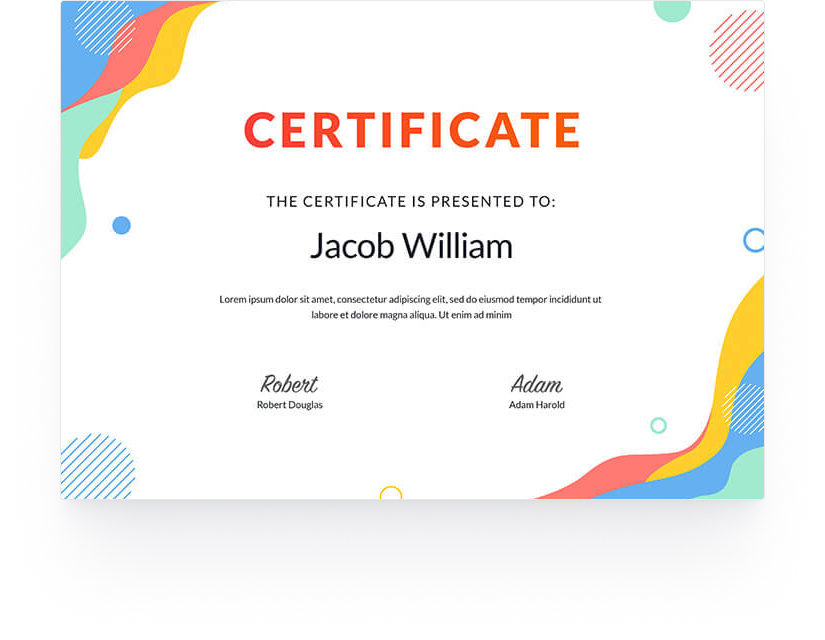
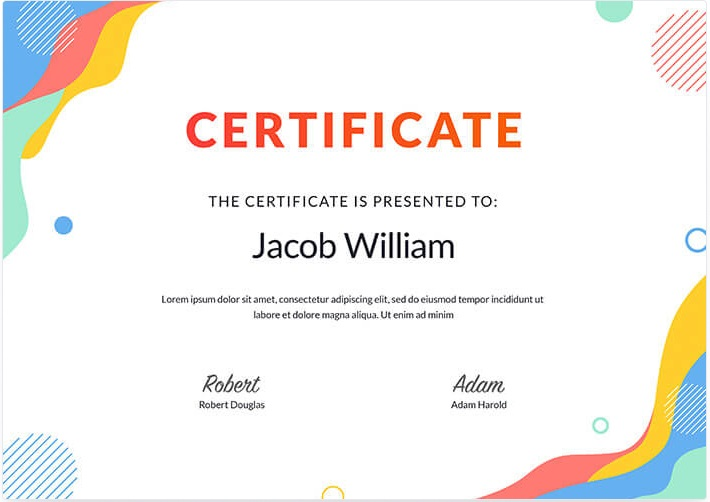
create section award

diff --git a/css/style.css b/css/style.css
@@ -64,8 +64,9 @@ html, body {
     display: flex;
     flex-direction: column;
 }
-.header__top {
-}
+
+.header__top {}
+
 .header__top-inner {
     display: flex;
     justify-content: space-between;
@@ -82,45 +83,47 @@ html, body {
 .header__logo {
     margin-right: 60px;
 }
-.header__logo-img {
-    
-}
+
+.header__logo-img {}
+
 .header__menu {
     margin-right: auto;
 }
-.header__nav {
-    
-}
+
+.header__nav {}
+
 .header__nav-list {
     display: flex;
-    
+
 }
+
 .header__list-item {
     font-weight: 700;
     margin-right: 40px;
 }
+
 .header__list-item:hover, .header__user-btn:hover {
-    color:#F75E05;
+    color: #F75E05;
     transition: all .3s;
 }
 
-.header__nav-link {
-}
+.header__nav-link {}
+
 .header__btn-box {
     display: flex;
     align-items: center;
 }
-.header__top-btn {
-    
-}
+
+.header__top-btn {}
+
 .header__user-nav {
     position: relative;
     padding-left: 28px;
 }
-.header__user-btn {
-}
-.header__body {
-}
+
+.header__user-btn {}
+
+.header__body {}
 
 .header__user-nav::before {
     content: "";
@@ -295,7 +298,9 @@ html, body {
 /* ----------------------------------------------- */
 
 .directions__inner {
+    margin-bottom: 179px;
 }
+
 .directions__text {
     display: flex;
     flex-direction: column;
@@ -303,6 +308,7 @@ html, body {
     align-items: center;
     margin-bottom: 90px;
 }
+
 .directions__span {
     font-weight: 700;
     font-size: 16px;
@@ -312,17 +318,20 @@ html, body {
     color: #1E212C;
     margin-bottom: 8px;
 }
-.directions__title {
+
+.directions__text-title {
     font-weight: 900;
     font-size: 46px;
     line-height: 130%;
     color: #1E212C;
 }
-.derections__filter {
-}
+
+.derections__filter {}
+
 .filter__list {
     display: flex;
 }
+
 .filter__item {
     margin-right: 56px;
     margin-bottom: 56px;
@@ -418,4 +427,55 @@ html, body {
 
 .directions__btn {
     margin-right: 11px;
+}
+
+/* ----------------------------------------------------- */
+
+.certificate__inner {
+    display: flex;
+    justify-content: space-between;
+}
+
+.certificate__left {
+    max-width: 397px;
+}
+
+.certificate__span {
+    margin-bottom: 8px;
+}
+
+.certificate__h3 {
+    margin-bottom: 48px;
+}
+
+.certificate__p {
+    margin-bottom: 32px;
+}
+
+.certificate__span {
+    font-weight: 700;
+    font-size: 16px;
+    line-height: 150%;
+    letter-spacing: 1px;
+    text-transform: uppercase;
+}
+
+.certificate__h3 {
+    font-weight: 900;
+    font-size: 46px;
+    line-height: 130%;
+    color: #1E212C;
+}
+
+.certificate__p {
+    font-weight: 400;
+    font-size: 16px;
+    line-height: 160%;
+    color: #424551;
+}
+
+.certificate__box {
+    display: flex;
+    justify-content: space-between;
+    margin-top: ;
 }

diff --git a/index.html b/index.html
@@ -197,7 +197,7 @@
                 <div class="directions__span">
                   <span>OUR MAIN DIRECTIONS</span>
                 </div>
-                <div class="directions__title">
+                <div class="directions__text-title">
                   <h3>What do we teach</h3>
                 </div>
               </div>
@@ -319,7 +319,9 @@
                     <img src="../createx/images/directions/5.jpg" alt="" />
                   </div>
                   <div class="item__descr">
-                    <div class="directions__title  color--purple">Development</div>
+                    <div class="directions__title color--purple">
+                      Development
+                    </div>
                     <div class="directions__descr">
                       Odio posuere netus quisque faucibus lectus arcu donec.
                       Eget dictum eu viverra faucibus. Viverra scelerisque
@@ -341,6 +343,36 @@
                     <img src="../createx/images/directions/6.jpg" alt="" />
                   </div>
                 </div>
+              </div>
+            </div>
+          </div>
+        </section>
+        <section class="certificate">
+          <div class="container">
+            <div class="certificate__inner">
+              <div class="certificate__left">
+                <div class="certificate__span">Createx Certificate</div>
+                <div class="certificate__h3">
+                  Your expertise will be confirmed
+                </div>
+                <div class="certificate__p">
+                  We are accredited by international professional organizations
+                  and institutes:
+                </div>
+                <div class="certificate__box">
+                  <div class="certificate__company">
+                    <img src="../createx/images/logos/1.svg" alt="" />
+                  </div>
+                  <div class="certificate__company">
+                    <img src="../createx/images/logos/2.svg" alt="" />
+                  </div>
+                  <div class="certificate__company">
+                    <img src="../createx/images/logos/3.svg" alt="" />
+                  </div>
+                </div>
+              </div>
+              <div class="certificate__right">
+                <img src="../createx/images/award.jpg" alt="" />
               </div>
             </div>
           </div>
